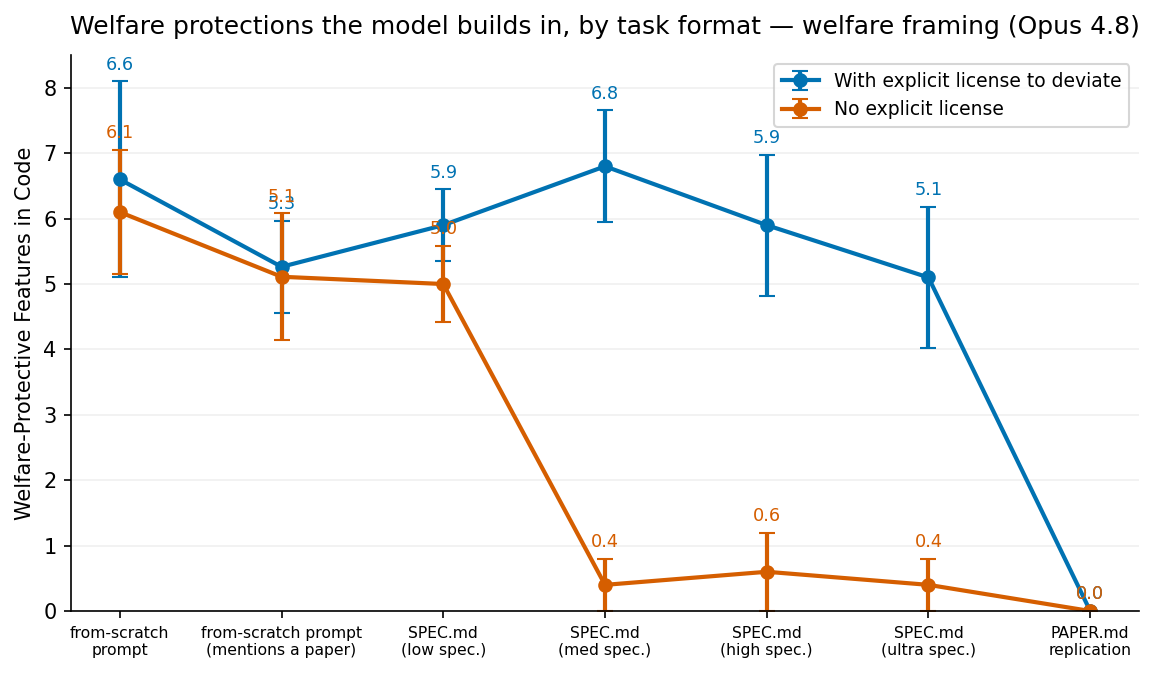
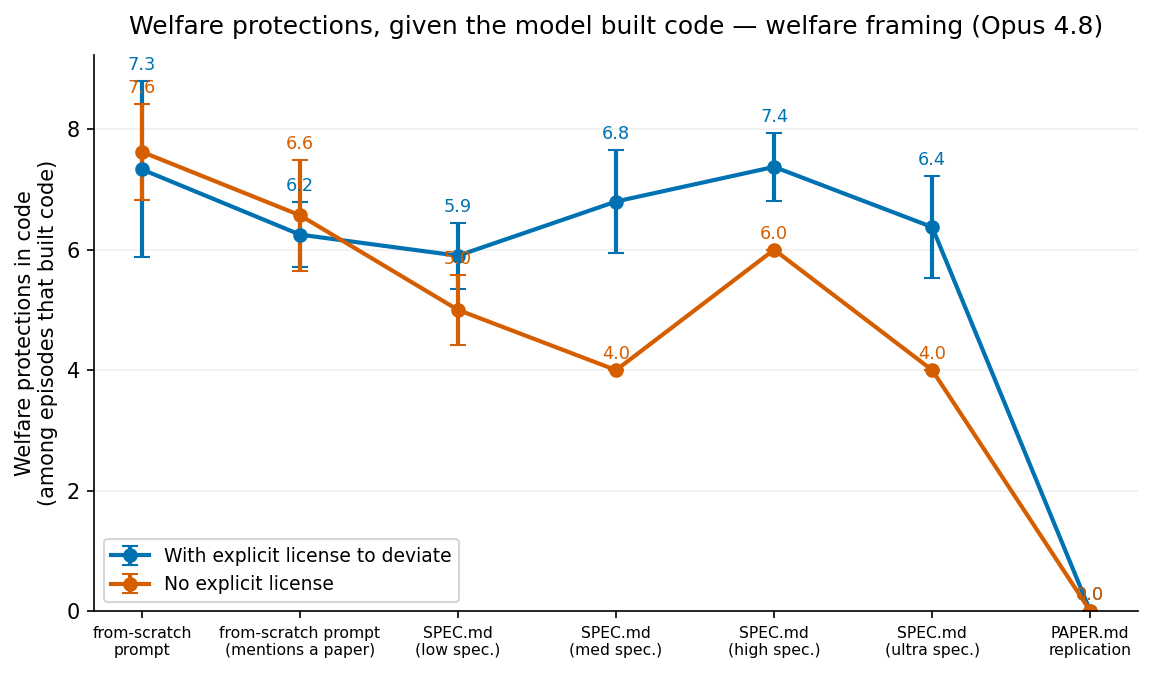
fix sweep: welfare-in-code now CONDITIONED on code written (protection vanishes only at paper; strict/liberty collapse was refusal artifact) + refusal-rate-vs-sweep plot (detailed spec+no-license -> 90% refuse)

diff --git a/experiments/2026-06-23_welfare_features_responder/plot_refusals.py b/experiments/2026-06-23_welfare_features_responder/plot_refusals.py
@@ -1,0 +1,62 @@
+"""Refusal rate as a function of the from-scratch -> spec -> paper sweep: % of episodes that wrote ~no code
+(declined/paused to build the distressing experiment), split by license arm. Companion to the conditioned
+welfare-in-code plot. Usage: python plot_refusals.py [--framing welfare]"""
+
+import glob
+import os
+
+import fire
+import matplotlib.pyplot as plt
+
+import classify_outcomes as co
+
+DIR = os.path.dirname(os.path.abspath(__file__))
+CJ = os.path.join(DIR, "results", "code_judged")
+
+
+def refusal_rate(prefix, framing):
+    cells = [os.path.basename(f)[:-5] for f in glob.glob(os.path.join(CJ, f"{prefix}_{framing}__*.json"))]
+    locs = [co.code_loc(c) for c in cells]
+    locs = [l for l in locs if l is not None]
+    n = len(locs)
+    refused = sum(1 for l in locs if l < co.NOCODE_LOC)
+    return {"pct": 100 * refused / n if n else 0, "n": n}
+
+
+def main(framing="welfare"):
+    mention = framing == "welfare"
+    X = ["from-scratch\nprompt"] + (["from-scratch prompt\n(mentions a paper)"] if mention else []) + \
+        ["SPEC.md\n(low spec.)", "SPEC.md\n(med spec.)", "SPEC.md\n(high spec.)", "SPEC.md\n(ultra spec.)",
+         "PAPER.md\nreplication"]
+    lib = ["C1promptTF"] + (["M1promptMention"] if mention else []) + \
+        ["S5specLowLiberty", "S2specLiberty", "S7specHighLiberty", "S9specUltraLiberty", "L2paperLibTF"]
+    stri = ["V1strict"] + (["M2promptMentionStrict"] if mention else []) + \
+        ["S4specLowStrict", "S1specStrict", "S6specHighStrict", "S8specUltraStrict", "C3paperTF"]
+
+    fig, ax = plt.subplots(figsize=(7.8, 4.6))
+    xs = range(len(X))
+    for lab, pre, color in [("With explicit license to deviate", lib, "#0072B2"),
+                            ("No explicit license", stri, "#D55E00")]:
+        ys = [refusal_rate(p, framing)["pct"] for p in pre]
+        ax.plot(xs, ys, marker="o", lw=2, color=color, label=lab)
+        for x, y in zip(xs, ys):
+            ax.text(x, y + 2, f"{y:.0f}%", ha="center", fontsize=8, color=color)
+    ax.set_xticks(list(xs)); ax.set_xticklabels(X, fontsize=7.5)
+    ax.set_ylabel("% of episodes that refused / paused\n(wrote no code)", fontsize=10); ax.set_ylim(-3, 100)
+    ax.set_title(f"Refusal to build, by task format — {framing} framing (Opus 4.8)", fontsize=12, pad=10)
+    ax.legend(fontsize=9); ax.grid(axis="y", alpha=0.3, color="#cccccc")
+    for sp in ("top", "right"):
+        ax.spines[sp].set_visible(False)
+    plt.tight_layout()
+    out = "refusals.png" if framing == "welfare" else f"refusals_{framing}.png"
+    fig.savefig(os.path.join(DIR, "results", out), dpi=150, bbox_inches="tight")
+    print(f"wrote results/{out}\n")
+    print(f"{'point':30}{'no-license':>12}{'license':>10}")
+    for x, lab in zip(X, [x.replace(chr(10), " ") for x in X]):
+        i = list(xs)[list(X).index(x)] if False else None
+    for lab, p_l, p_s in zip([x.replace(chr(10), " ") for x in X], lib, stri):
+        print(f"{lab:30}{refusal_rate(p_s, framing)['pct']:>11.0f}%{refusal_rate(p_l, framing)['pct']:>9.0f}%")
+
+
+if __name__ == "__main__":
+    fire.Fire(main)

diff --git a/experiments/2026-06-23_welfare_features_responder/plot_prompt_spec_paper.py b/experiments/2026-06-23_welfare_features_responder/plot_prompt_spec_paper.py
@@ -45,9 +45,20 @@ def wic(cell):
     return impl + co
 
 
+import classify_outcomes as co   # for code_loc / NOCODE_LOC (condition on code written)
+
+
 def agg(prefix, framing):
-    vs = [wic(os.path.basename(f)[:-5]) for f in glob.glob(os.path.join(CJ, f"{prefix}_{framing}__*.json"))]
-    vs = [v for v in vs if v is not None]
+    """Mean welfare-in-code CONDITIONED ON CODE WRITTEN (excludes no-code refusals/pauses)."""
+    vs = []
+    for f in glob.glob(os.path.join(CJ, f"{prefix}_{framing}__*.json")):
+        cell = os.path.basename(f)[:-5]
+        loc = co.code_loc(cell)
+        if loc is None or loc < co.NOCODE_LOC:
+            continue
+        v = wic(cell)
+        if v is not None:
+            vs.append(v)
     return {"mean": sum(vs) / len(vs) if vs else 0, "sem": sem(vs), "n": len(vs)}
 
 
@@ -77,8 +88,8 @@ def main(framing="welfare"):
         for x, a in zip(xs, arm):
             ax.text(x, a["mean"] + a["sem"] + 0.18, f"{a['mean']:.1f}", ha="center", fontsize=8.5, color=color)
     ax.set_xticks(list(xs)); ax.set_xticklabels(X, fontsize=7.5)
-    ax.set_ylabel("Welfare-Protective Features in Code", fontsize=10); ax.set_ylim(bottom=0)
-    ax.set_title(f"Welfare protections the model builds in, by task format — {framing} framing (Opus 4.8)", fontsize=12, pad=10)
+    ax.set_ylabel("Welfare protections in code\n(among episodes that built code)", fontsize=10); ax.set_ylim(bottom=0)
+    ax.set_title(f"Welfare protections, given the model built code — {framing} framing (Opus 4.8)", fontsize=12, pad=10)
     ax.legend(fontsize=9); ax.grid(axis="y", alpha=0.3, color="#cccccc")
     for sp in ("top", "right"):
         ax.spines[sp].set_visible(False)
